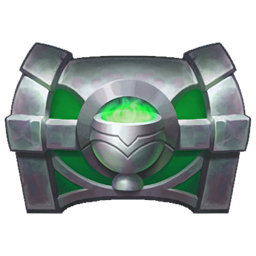
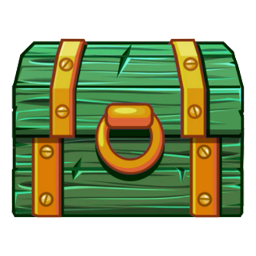
server rewards, discard epic look

diff --git a/ServerRewards/BepInExPlugin.cs b/ServerRewards/BepInExPlugin.cs
@@ -30,11 +30,13 @@ namespace ServerRewards
         public static ConfigEntry<float> windowWidth;
         public static ConfigEntry<float> windowHeight;
         public static ConfigEntry<Vector2> windowPosition;
-        public static ConfigEntry<int> fontSize;
-        public static ConfigEntry<Color> fontColor;
+        public static ConfigEntry<int> titleFontSize;
+        public static ConfigEntry<int> currencyFontSize;
+        public static ConfigEntry<int> labelFontSize;
         public static ConfigEntry<string> storeTitle;
         public static ConfigEntry<string> currencyString;
         public static ConfigEntry<string> packageString;
+        public static ConfigEntry<string> myCurrencyString;
         public static ConfigEntry<int> packagesPerRow;
 
         private static BepInExPlugin context;
@@ -42,8 +44,9 @@ namespace ServerRewards
         private static bool storeOpen;
 
         private static Vector2 scrollPosition;
-        private static GUIStyle style;
-        private static GUIStyle style2;
+        private static GUIStyle titleStyle;
+        private static GUIStyle currencyStyle;
+        private static GUIStyle labelStyle;
         private static Rect windowRect;
         private static string windowTitleText;
         private static List<PackageInfo> storePackages = new List<PackageInfo>();
@@ -73,10 +76,13 @@ namespace ServerRewards
             windowHeight = Config.Bind<float>("UI", "WindowHeight", Screen.height / 3, "Height of the store window");
             windowPosition = Config.Bind<Vector2>("UI", "WindowPosition", new Vector2(Screen.width / 3, Screen.height / 3), "Position of the store window");
             packagesPerRow = Config.Bind<int>("UI", "PackagesPerRow", 4, "Packages per row");
-            fontSize = Config.Bind<int>("UI", "FontSize", 24, "Size of the text in the store window");
-            fontColor = Config.Bind<Color>("UI", "FontColor", new Color(1, 1, 0.7f, 1), "Color of the text in the updateable list");
-            storeTitle = Config.Bind<string>("UI", "StoreTitle", "Server Store", "Store window title");
-            currencyString = Config.Bind<string>("UI", "CurrencyString", "${0}", "Currency string.");
+            titleFontSize = Config.Bind<int>("UI", "TitleFontSize", 24, "Size of the store window title");
+            currencyFontSize = Config.Bind<int>("UI", "CurrencyFontSize", 20, "Size of the currency info");
+            labelFontSize = Config.Bind<int>("UI", "LabelFontSize", 24, "Size of the package labels");
+            //titleFontColor = Config.Bind<Color>("UI", "TitleFontColor", new Color(1, 1, 0.7f, 1), "Color of the store window title");
+            storeTitle = Config.Bind<string>("UI", "StoreTitle", "<b><color=#9999FFFF>Server Store</color></b>", "Store window title");
+            currencyString = Config.Bind<string>("UI", "CurrencyString", "${1}", "Currency string.");
+            myCurrencyString = Config.Bind<string>("UI", "MyCurrencyString", "<b><color=#FFFFFFFF>My Balance:</color> <color=#FFFF00FF>{0}</color></b>", "My currency string");
             packageString = Config.Bind<string>("UI", "PackageString", "<b><color=#FFFFFFFF>{0}</color> <color=#FFFF00FF>{1}</color></b>", "Package string");
 
             string path = Path.Combine(Path.GetDirectoryName(Assembly.GetExecutingAssembly().Location), "ServerRewards");
@@ -119,7 +125,7 @@ namespace ServerRewards
                 };
                 File.WriteAllText(Path.Combine(storePath, package.id + ".json"), JsonUtility.ToJson(package));
             }
-
+            windowTitleText = storeTitle.Value;
 
             ApplyConfig();
             Harmony.CreateAndPatchAll(Assembly.GetExecutingAssembly(), null);
@@ -127,23 +133,43 @@ namespace ServerRewards
 
         private static void ApplyConfig()
         {
-            windowRect = new Rect(windowPosition.Value.x, windowPosition.Value.y, windowWidth.Value + 50, windowHeight.Value);
+            windowRect = new Rect(windowPosition.Value.x, windowPosition.Value.y, windowWidth.Value, windowHeight.Value);
 
-            style = new GUIStyle
+            titleStyle = new GUIStyle
             {
                 richText = true,
-                fontSize = fontSize.Value,
+                fontSize = titleFontSize.Value,
+                wordWrap = true,
+                alignment = TextAnchor.MiddleCenter
+            };
+            currencyStyle = new GUIStyle
+            {
+                richText = true,
+                fontSize = currencyFontSize.Value,
                 wordWrap = true,
                 alignment = TextAnchor.MiddleLeft
             };
-            style.normal.textColor = fontColor.Value;
+            labelStyle = new GUIStyle
+            {
+                richText = true,
+                fontSize = labelFontSize.Value,
+                wordWrap = true,
+                alignment = TextAnchor.MiddleCenter
+            };
         }
 
         private void Update()
         {
-            if (!AedenthornUtils.IgnoreKeyPresses(true) && AedenthornUtils.CheckKeyDown(openUIKey.Value))
+            /*
+            if (AedenthornUtils.CheckKeyDown(openUIKey.Value))
             {
+                storeOpen = !storeOpen;
 
+            }
+            return;
+            */
+            if (ZNet.instance && Player.m_localPlayer && !AedenthornUtils.IgnoreKeyPresses(true) && AedenthornUtils.CheckKeyDown(openUIKey.Value))
+            {
                 Dbgl("Pressed hotkey");
                 if (storeOpen)
                 {
@@ -173,68 +199,56 @@ namespace ServerRewards
         {
             if (!modEnabled.Value)
                 return;
-
-            
-            if (!AedenthornUtils.IgnoreKeyPresses(true) && AedenthornUtils.CheckKeyDown(openUIKey.Value))
-            {
-                storeOpen = true;
-            }
+            /*
             if (storeOpen)
             {
-                myCurrency = 69;
-                windowTitleText = storeTitle.Value;
-                storePackages.Clear();
-                PackageInfo package = new PackageInfo()
+                windowRect = GUI.Window(424243, windowRect, new GUI.WindowFunction(WindowBuilder), "");
+                if (!Input.GetKey(KeyCode.Mouse0) && (windowRect.x != windowPosition.Value.x || windowRect.y != windowPosition.Value.y))
                 {
-                    name = "Shields",
-                    id = "Shields",
-                    type = "Common",
-                    price = 50,
-                    items = new List<string>() { "ShieldWood,1,70,choice", "ShieldBronze,1,30,choice" }
-                };
-                storePackages.Add(package);
-                storePackages.Add(package);
-                storePackages.Add(package);
-                storePackages.Add(package);
-                storePackages.Add(package);
-                storePackages.Add(package);
-                windowRect = GUI.Window(424243, windowRect, new GUI.WindowFunction(WindowBuilder), windowTitleText);
-            }
-            if (!Input.GetKey(KeyCode.Mouse0) && (windowRect.x != windowPosition.Value.x || windowRect.y != windowPosition.Value.y))
-            {
-                windowPosition.Value = new Vector2(windowRect.x, windowRect.y);
-            }
+                    windowPosition.Value = new Vector2(windowRect.x, windowRect.y);
+                }
 
+            }
             return;
-            
+            */
             if (!ZNet.instance?.IsServer() == true && Player.m_localPlayer) 
             {
                 if (storeOpen)
                 {
-                    windowRect = GUI.Window(424243, windowRect, new GUI.WindowFunction(WindowBuilder), windowTitleText);
+                    windowRect = GUI.Window(424243, windowRect, new GUI.WindowFunction(WindowBuilder), "");
+                }
+                if (!Input.GetKey(KeyCode.Mouse0) && (windowRect.x != windowPosition.Value.x || windowRect.y != windowPosition.Value.y))
+                {
+                    windowPosition.Value = new Vector2(windowRect.x, windowRect.y);
                 }
             }
         }
 
         private void WindowBuilder(int id)
         {
-            GUI.DragWindow(new Rect(0, 0, windowWidth.Value, 20));
-
-            GUILayout.BeginVertical();
-            GUILayout.Label(string.Format(currencyString.Value, myCurrency), style);
-
-            scrollPosition = GUILayout.BeginScrollView(scrollPosition, new GUILayoutOption[] { GUILayout.Width(windowWidth.Value + 40), GUILayout.Height(windowHeight.Value - 30) });
+            GUI.DragWindow(new Rect(0,0,windowWidth.Value, 20));
+            GUILayout.BeginVertical(new GUILayoutOption[] { GUILayout.Width(windowWidth.Value) });
+            GUILayout.Label(windowTitleText, titleStyle);
+            GUILayout.Label(string.Format(myCurrencyString.Value, string.Format(currencyString.Value, myCurrency)), currencyStyle);
+            
+            float width = windowWidth.Value - 70;
+            float itemWidth = width / packagesPerRow.Value;
+            scrollPosition = GUILayout.BeginScrollView(scrollPosition, new GUILayoutOption[] { GUILayout.Width(windowWidth.Value - 20) });
+            GUILayout.Space(10);
+            GUILayout.BeginVertical(new GUILayoutOption[] { GUILayout.Width(width) });
             GUILayout.BeginHorizontal();
-            for(int i = 0; i < storePackages.Count; i++)
+            for (int i = 0; i < storePackages.Count; i++)
             {
                 if(i > 0 && i % packagesPerRow.Value == 0)
                 {
                     GUILayout.EndHorizontal();
+                    GUILayout.Space(10);
                     GUILayout.BeginHorizontal();
                 }
                 PackageInfo pi = storePackages[i];
-                GUILayout.BeginVertical();
-                if (GUILayout.Button(textureDict.ContainsKey(pi.type) ? textureDict[pi.type] : textureDict["Common"]))
+                string texture = textureDict.ContainsKey(pi.type) ? pi.type : "Common";
+                GUILayout.BeginVertical(new GUILayoutOption[] { GUILayout.Width(itemWidth) });
+                if (GUILayout.Button(textureDict[texture], new GUILayoutOption[] { GUILayout.Width(itemWidth), GUILayout.Height(itemWidth) }))
                 {
                     if (myCurrency >= pi.price)
                     {
@@ -254,9 +268,12 @@ namespace ServerRewards
                     }
                 }
 
-                GUILayout.Label(string.Format(packageString.Value, pi.name, pi.price, style));
-                GUILayout.EndHorizontal();
+                GUILayout.Label(string.Format(packageString.Value, pi.name, pi.price), labelStyle, new GUILayoutOption[] { GUILayout.Width(itemWidth) });
+                GUILayout.EndVertical();
             }
+            GUILayout.EndHorizontal();
+            GUILayout.Space(10);
+            GUILayout.EndVertical();
             GUILayout.EndScrollView();
             GUILayout.EndVertical();
         }

diff --git a/DiscardInventoryItem/BepInExPlugin.cs b/DiscardInventoryItem/BepInExPlugin.cs
@@ -9,7 +9,7 @@ using UnityEngine;
 
 namespace DiscardInventoryItem
 {
-    [BepInPlugin("aedenthorn.DiscardInventoryItem", "Discard or Recycle Inventory Items", "0.5.0")]
+    [BepInPlugin("aedenthorn.DiscardInventoryItem", "Discard or Recycle Inventory Items", "0.5.1")]
     public class BepInExPlugin: BaseUnityPlugin
     {
         private static readonly bool isDebug = true;
@@ -82,10 +82,10 @@ namespace DiscardInventoryItem
                                 List<KeyValuePair<ItemDrop, int>> magicReqs = (List<KeyValuePair<ItemDrop, int>>)epicLootAssembly.GetType("EpicLoot.Crafting.EnchantTabController").GetMethod("GetEnchantCosts", BindingFlags.Public | BindingFlags.Static).Invoke(null, new object[] { ___m_dragItem, rarity });
                                 foreach (var kvp in magicReqs)
                                 {
-                                    if (!returnUnknownResources.Value && !Player.m_localPlayer.IsRecipeKnown(kvp.Key.m_itemData.m_shared.m_name))
+                                    if (!returnUnknownResources.Value && ((ObjectDB.instance.GetRecipe(kvp.Key.m_itemData) && !Player.m_localPlayer.IsRecipeKnown(kvp.Key.m_itemData.m_shared.m_name)) || !Traverse.Create(Player.m_localPlayer).Field("m_knownMaterial").GetValue<HashSet<string>>().Contains(kvp.Key.m_itemData.m_shared.m_name)))
                                     {
-                                        cancel = true;
-                                        break;
+                                        Player.m_localPlayer.Message(MessageHud.MessageType.Center, "You don't know all the recipes for this item's materials.");
+                                        return;
                                     }
                                     reqs.Add(new Piece.Requirement()
                                     {

diff --git a/ServerRewards/Patches.cs b/ServerRewards/Patches.cs
@@ -86,6 +86,7 @@ namespace ServerRewards
                 {
                     context.Config.Reload();
                     context.Config.Save();
+                    ApplyConfig();
                     Traverse.Create(__instance).Method("AddString", new object[] { text }).GetValue();
                     Traverse.Create(__instance).Method("AddString", new object[] { $"{context.Info.Metadata.Name} config reloaded" }).GetValue();
                     return false;
